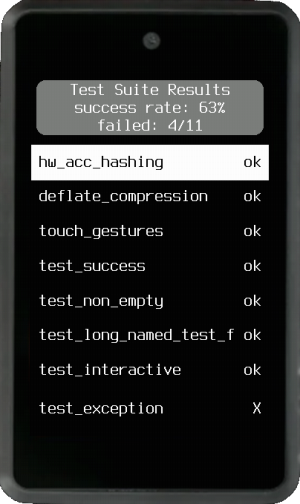
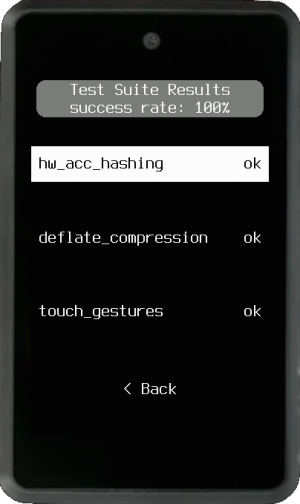
returned imgs from test-suite

diff --git a/src/krux/pages/device_tests.py b/src/krux/pages/device_tests.py
@@ -60,14 +60,14 @@ class DeviceTests(Page):
             self.deflate_compression,
             self.touch_gestures,
             # all below are prototyping/pseudo-tests
-            self.test_success,
-            self.test_non_empty,
-            self.test_long_named_test_function,
-            self.test_interactive,  # interactive test
-            self.test_exception,  # failure
-            self.test_false,  # failure
-            self.test_empty,  # failure
-            self.test_none,  # failure
+            # self.test_success,
+            # self.test_non_empty,
+            # self.test_long_named_test_function,
+            # self.test_interactive,  # interactive test
+            # self.test_exception,  # failure
+            # self.test_false,  # failure
+            # self.test_empty,  # failure
+            # self.test_none,  # failure
         ]
 
         self.ctx.display.clear()
@@ -332,30 +332,30 @@ class DeviceTests(Page):
 
     # next 8 tests below are prototyping/pseudo-tests -- these will be removed
     # pylint: disable=C0116
-    def test_success(self, interactive=False):
-        return True
+    # def test_success(self, interactive=False):
+    #     return True
 
-    def test_non_empty(self, interactive=False):
-        return "it worked"
+    # def test_non_empty(self, interactive=False):
+    #     return "it worked"
 
-    def test_exception(self, interactive=False):
-        raise ValueError("ValueError raised")
+    # def test_exception(self, interactive=False):
+    #     raise ValueError("ValueError raised")
 
-    def test_false(self, interactive=False):
-        return False
+    # def test_false(self, interactive=False):
+    #     return False
 
-    def test_empty(self, interactive=False):
-        return []
+    # def test_empty(self, interactive=False):
+    #     return []
 
-    def test_none(self, interactive=False):
-        pass
+    # def test_none(self, interactive=False):
+    #     pass
 
-    def test_long_named_test_function(self, interactive=False):
-        return True
+    # def test_long_named_test_function(self, interactive=False):
+    #     return True
 
-    def test_interactive(self, interactive=False):
-        if not interactive:
-            return "Cannot test non-interactively"
-        return self.prompt(
-            "Printer go Brrr...\nSeparate money and state?", BOTTOM_PROMPT_LINE
-        )
+    # def test_interactive(self, interactive=False):
+    #     if not interactive:
+    #         return "Cannot test non-interactively"
+    #     return self.prompt(
+    #         "Printer go Brrr...\nSeparate money and state?", BOTTOM_PROMPT_LINE
+    #     )

diff --git a/docs/faq.en.md b/docs/faq.en.md
@@ -7,15 +7,15 @@ Krux does not include hardware secure elements. The security of stored data reli
 
 **Note**: Due to the inherent fragility of electronic components, never use your Krux device or SD card encrypted storage as your sole backup method. Always maintain a physical backup for added security.
 
-## What is Beta version?
-The Beta version includes the latest and most experimental features, which we occasionally share on our social media. These can be found exclusively in the [test (beta) repository](https://github.com/odudex/krux_binaries). Use and flash the beta firmware if you are curious about new features or want to participate in the development process by hunting bugs, providing feedback, and sharing ideas in our Telegram groups or other social media platforms.
+## What is the test (beta) version?
+The test (beta) version includes the latest and most experimental features, which we occasionally share on our social media. The firmware can be found exclusively in the [test (beta) repository](https://github.com/odudex/krux_binaries). Use and flash the beta firmware if you are curious about new features or want to participate in the development process by hunting bugs, providing feedback, and sharing ideas in our Telegram groups or other social media platforms.
 
-For regular use, flash the official releases, which are signed, thoroughly tested, and well-documented.
+Just remember that for regular use, use the official versions, which are signed, thoroughly tested, and well documented.
 
 ## What is Krux Mobile Android app?
 
 ### How can I find it?
-The Krux Mobile Android app is available as an APK in the [KruxMobileApp](https://github.com/selfcustody/KruxMobileApp). It requires Android 6.0 or above.
+The Krux Mobile Android app is considered a test (beta) and is available as an APK at [KruxMobileApp](https://github.com/selfcustody/KruxMobileApp). It requires Android 6.0 or above.
 
 ### How can I install it?
 The APK is not available on the Play Store. You can download the APK directly or transfer it to your Android device via SD card or USB cable. To install it, you may need to configure your Android device to allow installations from unknown sources.

diff --git a/docs/getting-started/installing/from-test-release.en.md b/docs/getting-started/installing/from-test-release.en.md
@@ -4,7 +4,7 @@ This page explains how to install Krux from a test (beta), pre-built release.
 Keep in mind that these are unsigned binaries.
 
 ### Download
-Download experimental compiled firmware or the Android app `apk` from our [test (beta) repository](https://github.com/odudex/krux_binaries).
+Download experimental compiled firmware at [test (beta) repository](https://github.com/odudex/krux_binaries) or the Mobile Android app `apk` at [KruxMobileApp](https://github.com/selfcustody/KruxMobileApp).
 
 #### Mobile - Android
 The [Krux Mobile Android app](../../faq.md#what-is-krux-mobile-android-app) is designed for learning about Krux and Bitcoin air-gapped transactions. Due to the numerous potential vulnerabilities inherent in smartphones, such as the lack of control over the operating system, libraries, and hardware peripherals, the Krux app should NOT be used to manage wallets containing savings or important keys and mnemonics. For secure management of your keys, a dedicated device is recommended.
